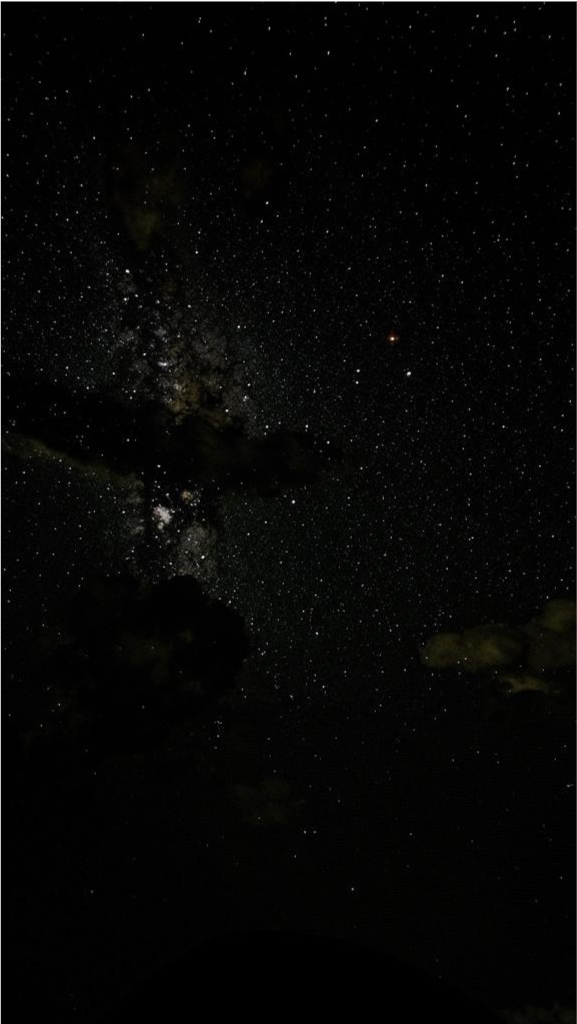
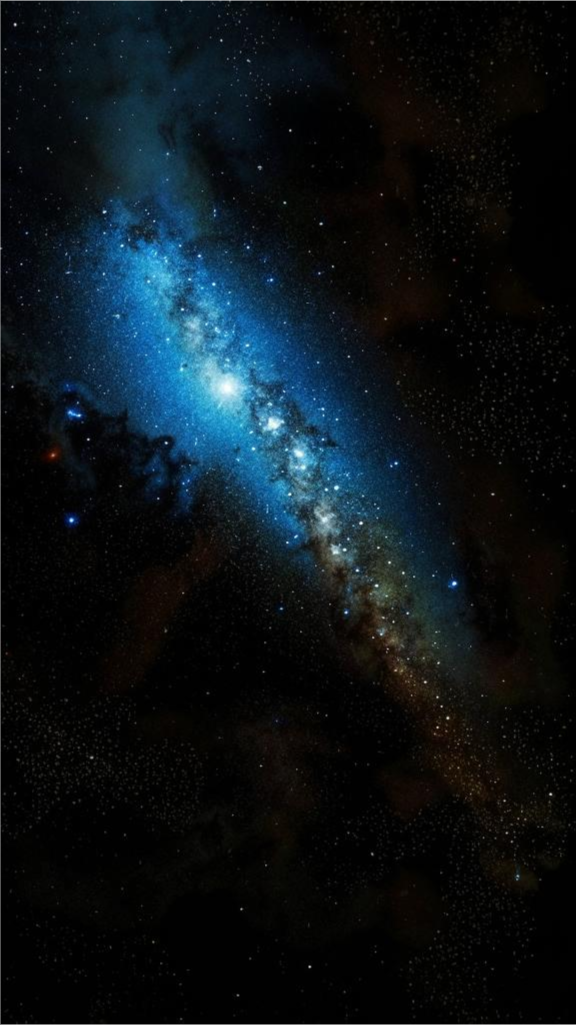
SpaceObject

diff --git a/core/src/main/java/ru/pifpaf/SpaceObject.java b/core/src/main/java/ru/pifpaf/SpaceObject.java
@@ -1,0 +1,17 @@
+package ru.pifpaf;
+
+public class SpaceObject {
+    public float x, y;
+    public float width, height;
+    public float vx, vy;
+
+    public SpaceObject(float x, float y) {
+        this.x = x;
+        this.y = y;
+    }
+
+    public void move(){
+        x += vx;
+        y += vy;
+    }
+}

diff --git a/core/src/main/java/ru/pifpaf/ScreenGame.java b/core/src/main/java/ru/pifpaf/ScreenGame.java
@@ -29,7 +29,7 @@ public class ScreenGame implements Screen {
         font = main.font;
         this.main = main;
 
-        imgBackGround = new Texture("space1.png");
+        imgBackGround = new Texture("space2.png");
 
         btnExit = new PifPafButton("Exit", font, 300, 600);
     }
